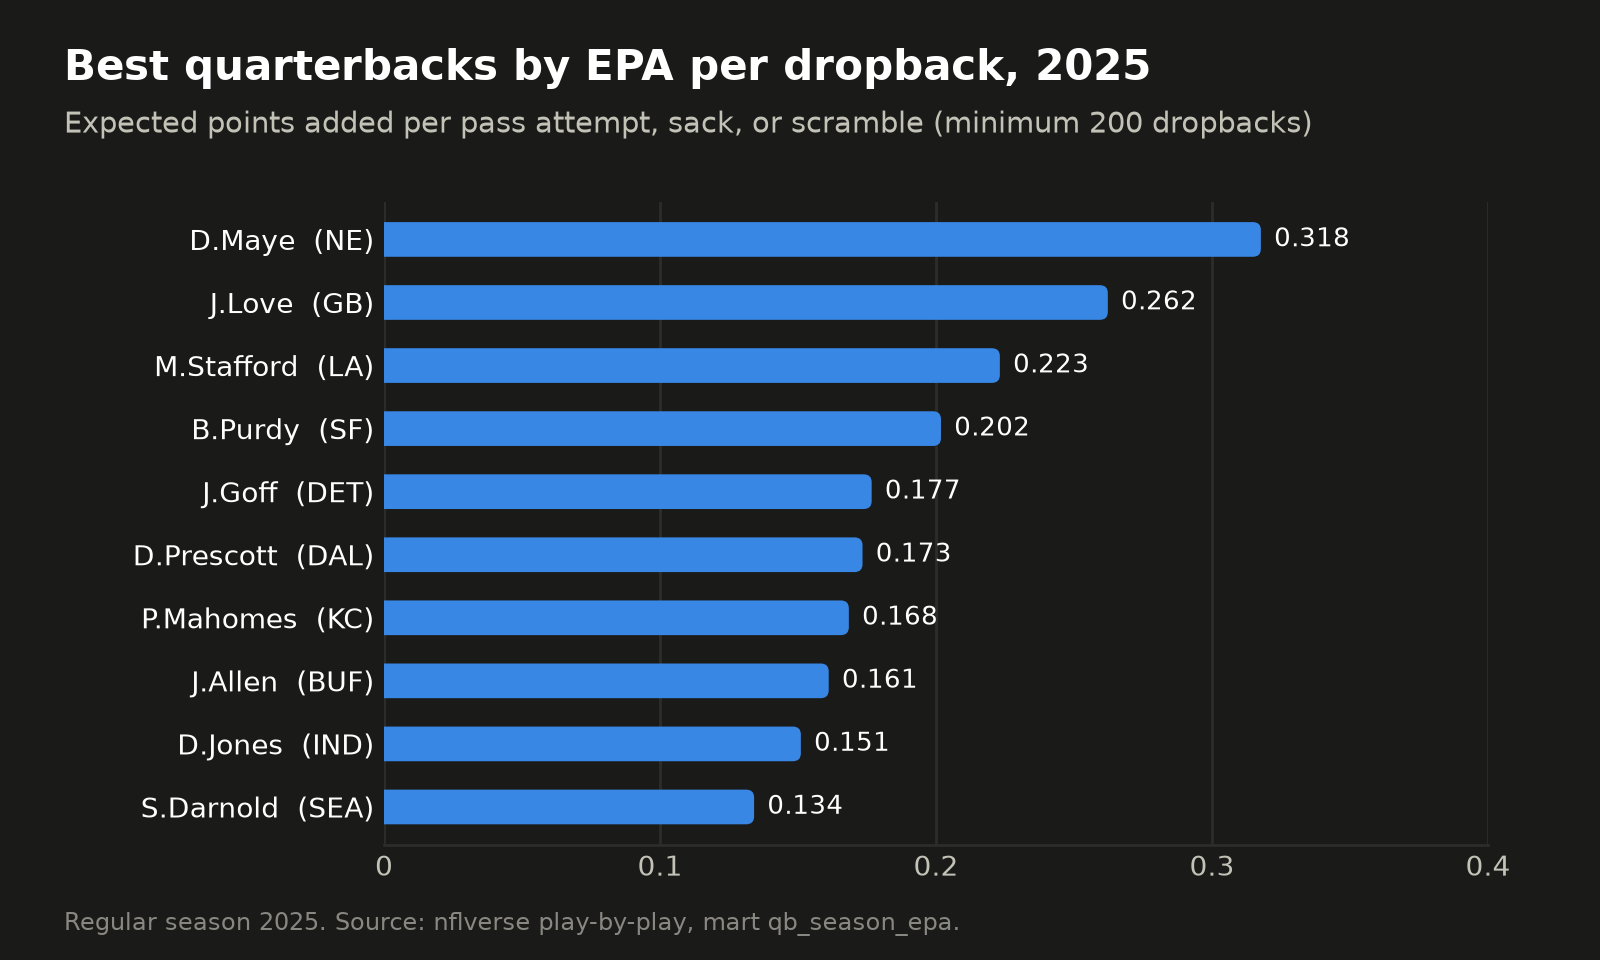
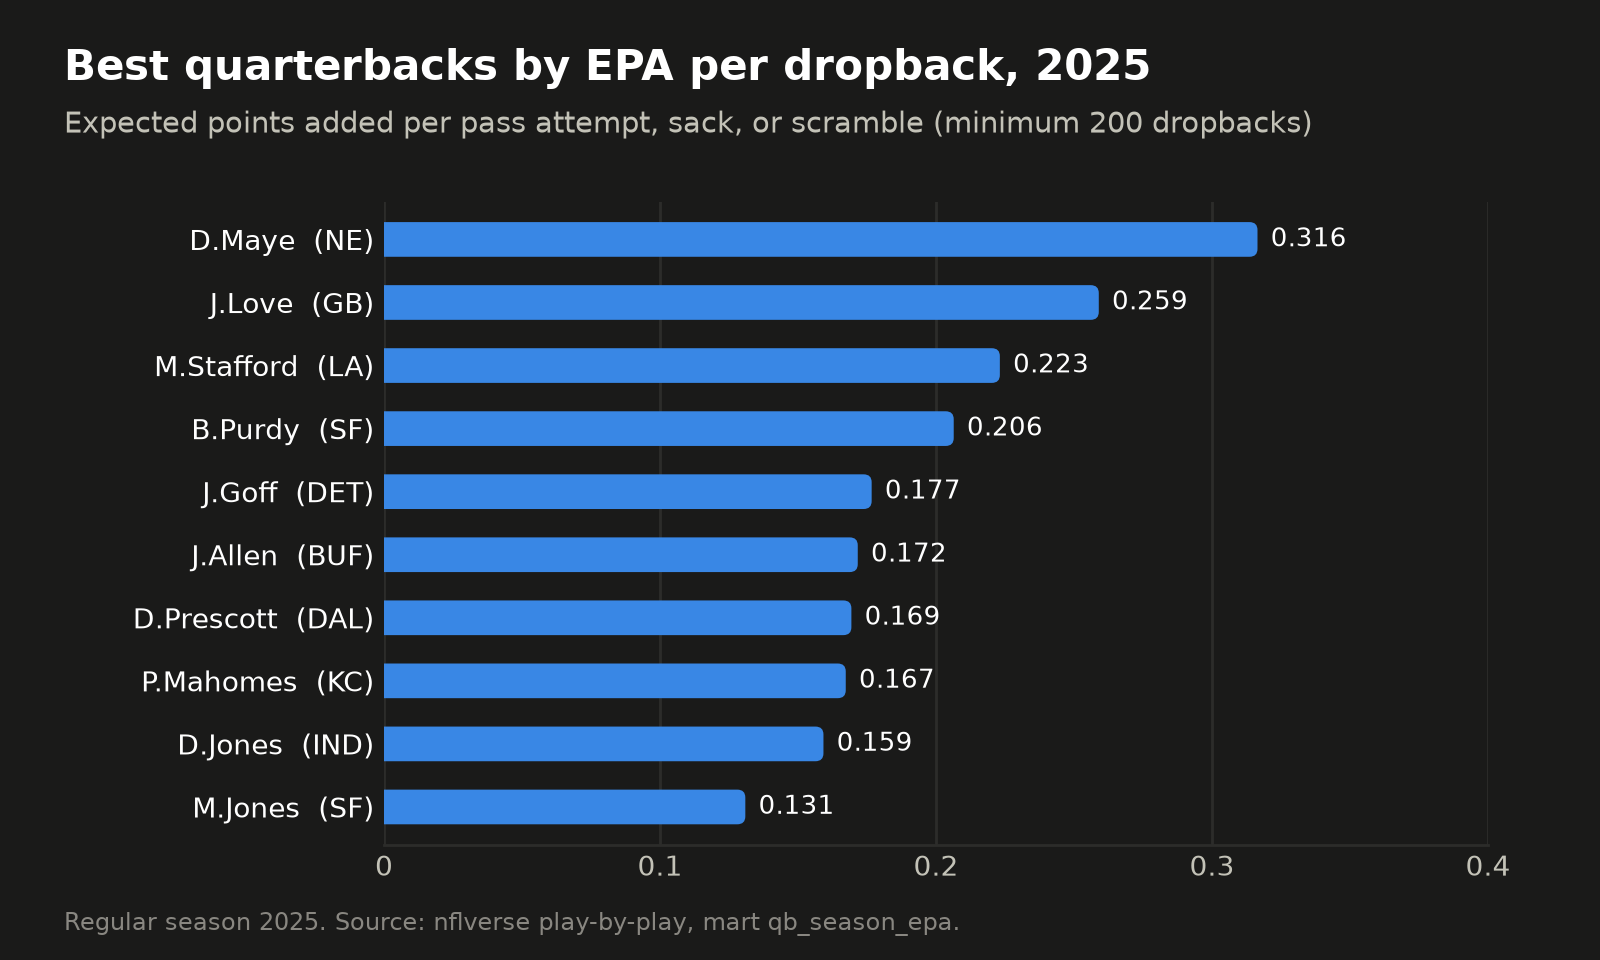
Leave two-point tries out of the EPA marts
Problem
-------
stg_pbp keeps every play whose play_type is pass or run, and nflverse logs two-point
tries that way, so 1,410 of them (about 120 a season) counted toward team EPA per play
and QB EPA per dropback. A two-point try isn't a down: it's an untimed, all-or-nothing
snap from the 2 after a touchdown. Mixing it in measures something other than "how
efficient is this offense, play by play", gives teams that score more touchdowns more of
these snaps, and doesn't match official passing stats, which leave them out.

This is a definition choice, not a bug fix: the old numbers weren't wrong, they counted
something different. I measured the effect before deciding (dev, all seasons):
  - QB EPA per dropback: median change 0.002, largest 0.018 (Siemian 2021)
  - dropbacks removed per QB-season: median 2, max 10
  - QB-seasons: 409 -> 408 (Beathard 2018 had exactly 200 dropbacks)
  - team net EPA: median change 0.002, largest 0.014
  - 2025: QB top 5 keeps its order (Maye 0.318 -> 0.316); LA passes NE for the top
    net EPA, and JAX replaces DEN in the top 5
Small, but the next mart ranks QBs by value for their contract, where close calls are
the point, so a "play" has to mean the same thing for everyone.

Fix
---
- stg_pbp: `and coalesce(two_point_attempt, 0) = 0`. coalesce treats a NULL flag as "not
  a two-point try", so a play is never dropped just because the flag is missing. (Today
  the 16,595 NULL rows are all non-plays like "END QUARTER 1", already filtered out.)
[…]

diff --git a/README.md b/README.md
@@ -388,7 +388,7 @@ Each asset also writes its Parquet file under `data/raw/` and keeps a copy in th
 
 | Model | Dagster asset | Description |
 | --- | --- | --- |
-| `stg_pbp` | `staging/stg_pbp` | Real plays only (`play_type in ('pass', 'run')`), with a single-column `play_key`, and `passer_id` / `passer_name` that include scrambles |
+| `stg_pbp` | `staging/stg_pbp` | Real plays from scrimmage only (`play_type in ('pass', 'run')`, two-point tries left out), with a single-column `play_key`, and `passer_id` / `passer_name` that include scrambles |
 | `stg_schedules` | `staging/stg_schedules` | Game results and betting lines, plus `is_played` |
 | `stg_teams` | `staging/stg_teams` | Team lookup |
 | `stg_fourth_downs` | `staging/stg_fourth_downs` | One row per fourth-down decision: went for it (pass or run, fakes included) or kicked (punt or field goal). Penalties, kneels, and spikes left out. Separate from `stg_pbp`, which keeps only pass and run plays |
@@ -410,7 +410,7 @@ Each asset also writes its Parquet file under `data/raw/` and keeps a copy in th
 
 <picture>
   <source media="(prefers-color-scheme: dark)" srcset="docs/images/qb_epa_2025-dark.png">
-  <img alt="Bar chart of the top 10 quarterbacks by EPA per dropback in 2025, led by Drake Maye at 0.318." src="docs/images/qb_epa_2025-light.png">
+  <img alt="Bar chart of the top 10 quarterbacks by EPA per dropback in 2025, led by Drake Maye at 0.316." src="docs/images/qb_epa_2025-light.png">
 </picture>
 
 Charts are drawn from the marts by [`scripts/make_charts.py`](scripts/make_charts.py) (`NFL_ENV=prod python scripts/make_charts.py`), in light and dark versions.
@@ -419,25 +419,25 @@ From the 2025 regular season:
 
 | Team | Off. EPA/play | Def. EPA/play | Net |
 | --- | --- | --- | --- |
-| NE | 0.159 | -0.047 | 0.206 |
-| LA | 0.145 | -0.061 | 0.206 |
-| BUF | 0.136 | -0.016 | 0.152 |
-| SEA | 0.033 | -0.116 | 0.149 |
-| DEN | 0.050 | -0.088 | 0.138 |
+| LA | 0.145 | -0.062 | 0.207 |
+| NE | 0.157 | -0.046 | 0.203 |
+| BUF | 0.141 | -0.015 | 0.156 |
+| SEA | 0.030 | -0.118 | 0.147 |
+| JAX | 0.033 | -0.104 | 0.138 |
 
 | QB | Team | Dropbacks | EPA/dropback | Success rate |
 | --- | --- | --- | --- | --- |
-| D.Maye | NE | 602 | 0.318 | 0.553 |
-| J.Love | GB | 485 | 0.262 | 0.505 |
+| D.Maye | NE | 601 | 0.316 | 0.552 |
+| J.Love | GB | 483 | 0.259 | 0.503 |
 | M.Stafford | LA | 624 | 0.223 | 0.527 |
-| B.Purdy | SF | 316 | 0.202 | 0.532 |
+| B.Purdy | SF | 313 | 0.206 | 0.534 |
 | J.Goff | DET | 619 | 0.177 | 0.486 |
 
 Across every game played since 2015, home teams covered the spread in 47.7% of games, away teams in 49.7%, and 2.6% were pushes.
 
 **The fourth-down revolution** (`team_fourth_down`): on fourth-and-short in competitive games, teams went for it **26.8%** of the time in 2015 and **61.8%** in 2025. The 2025 leaders were Indianapolis (84.2%, converting 62.5%), Buffalo (82.4%, converting only 42.9%, mostly on passes: 2 of 8), and Dallas (76.5%, converting 76.9%).
 
-The 2025 numbers above are identical on DuckDB and Snowflake, which is how the migration was verified. (2015 was added after the migration, by extending the season partitions back one year.)
+The migration from DuckDB was verified by getting identical 2025 numbers on both. (2015 was added after the migration, by extending the season partitions back one year.) The EPA numbers above have changed slightly since then, on purpose: two-point tries are no longer counted as plays (see [Design decisions](#design-decisions)). Before that change, Maye's 2025 EPA per dropback was 0.318, and NE led the net EPA table.
 
 ---
 
@@ -515,6 +515,8 @@ Snowflake can instead add new columns on its own (`ENABLE_SCHEMA_EVOLUTION = TRU
 **Regular season only in the marts.** Only 12–14 teams play in the postseason, so including it would weigh some teams' numbers toward playoff opponents.
 
 **Single-column keys in the marts** (`team_season_key`, `qb_season_key`), so plain dbt `unique` tests work without extra packages.
+
+**Two-point tries aren't plays.** nflverse logs a two-point try as a pass or run, so it used to count toward EPA per play and per dropback (1,410 tries since 2015). It's left out of `stg_pbp` now, because it isn't a down: it's an untimed, all-or-nothing snap from the 2 after a touchdown, and teams that score more touchdowns get more of them. Official passing stats leave them out for the same reason. It's a definition choice, not a bug fix, so I measured it before deciding: a QB's EPA per dropback moved by 0.002 at the median and 0.018 at most, a few close QBs swapped places, and one QB-season (Beathard 2018, exactly 200 dropbacks) fell below the cutoff. Small, but the contract-value mart will rank close QBs against each other, so a play has to mean the same thing for everyone. A dbt unit test (`keeps_scrimmage_plays_only`) keeps the rule in place.
 
 **QB stats grouped by `passer_id`, not name.** Abbreviated names like `J.Daniels` belong to several players. `passer` / `passer_id` also include scrambles, which `passer_player_name` doesn't.
 
